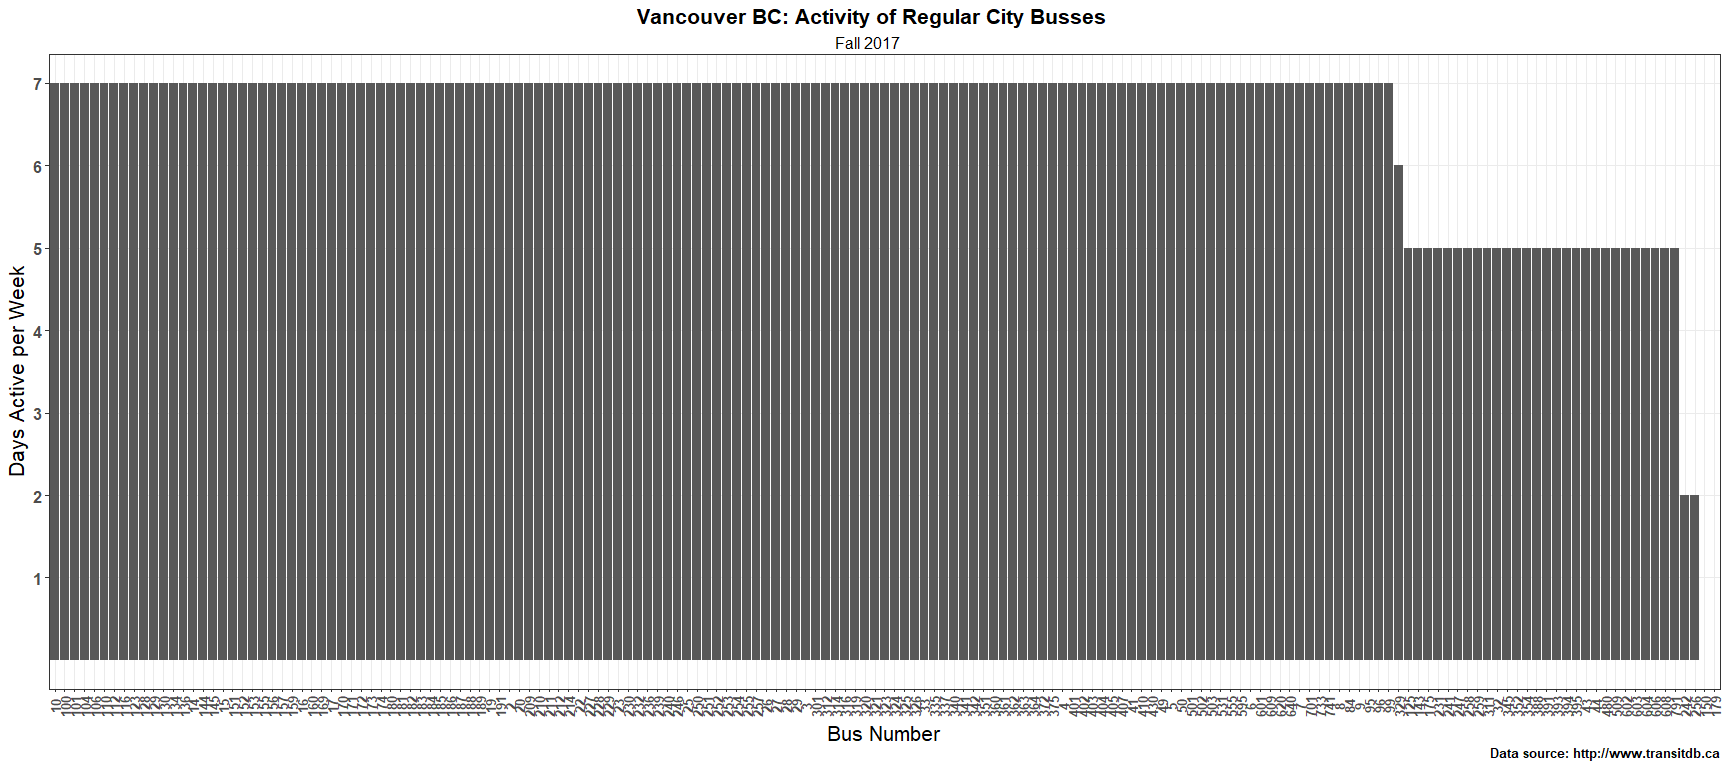
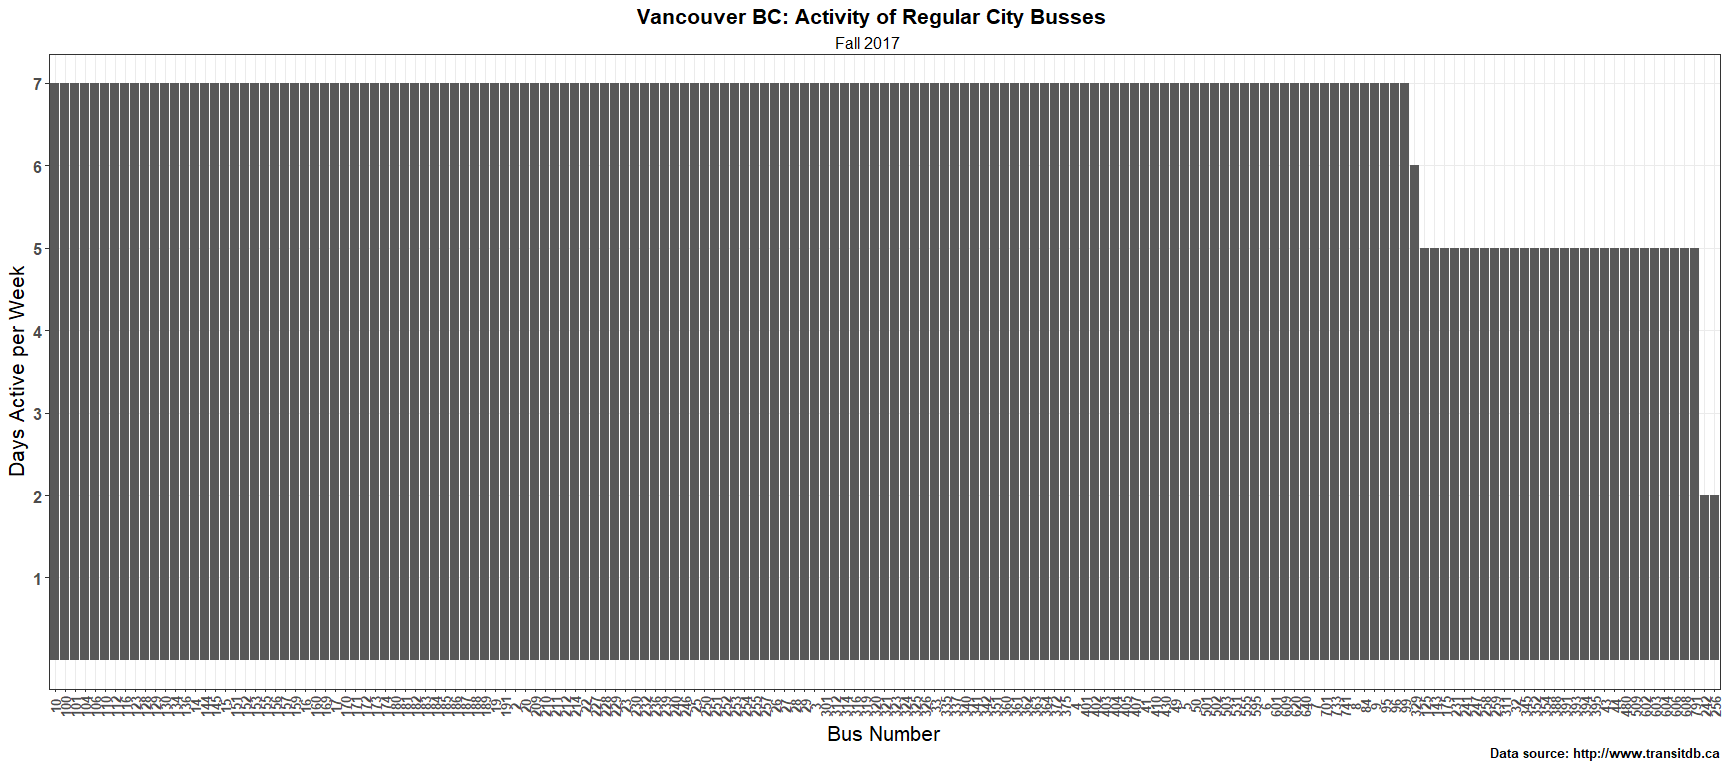
Added Save data to disc.

Changed region(s): [[0.5312, 0.0938, 1.0, 0.875], [0.0625, 0.0938, 0.4688, 0.875], [0.0625, 0.9062, 1.0, 0.9375]]

diff --git a/hw10_Web_Data_Scraping/Web_Data_Scraping.md b/hw10_Web_Data_Scraping/Web_Data_Scraping.md
@@ -1,7 +1,7 @@
 Homework 10 - Data Scraping from the Web
 ================
 Hayden Scheiber -
-06 December, 2017
+10 December, 2017
 
 [Return to Main Page](https://github.com/HScheiber/STAT545-hw-Scheiber-Hayden/blob/master/README.md)
 
@@ -13,6 +13,7 @@ Hayden Scheiber -
     1.  [Scraping the Vancouver Bus Schedules](#scraping-the-vancouver-bus-schedules)
     2.  [Obtaining Lists of Webpage Data](#obtaining-lists-of-webpage-data)
     3.  [We Need to go Deeper](#we-need-to-go-deeper)
+    4.  [Saving the data](#saving-the-data)
 
 ------------------------------------------------------------------------
 
@@ -104,7 +105,7 @@ vanc_bus_info <- data_frame(
 str(vanc_bus_info)
 ```
 
-    ## Classes 'tbl_df', 'tbl' and 'data.frame':    221 obs. of  2 variables:
+    ## Classes 'tbl_df', 'tbl' and 'data.frame':    218 obs. of  2 variables:
     ##  $ Bus_Number: chr  "2" "3" "4" "5" ...
     ##  $ Bus_Route : chr  "2 Macdonald / Downtown" "3 Main / Downtown" "4 Powell / Downtown / UBC" "5 Robson / Downtown" ...
 
@@ -204,13 +205,13 @@ vanc_bus_linkinfo <- vanc_bus_info %>%
 str(vanc_bus_linkinfo, max.level = 1)
 ```
 
-    ## Classes 'tbl_df', 'tbl' and 'data.frame':    221 obs. of  5 variables:
+    ## Classes 'tbl_df', 'tbl' and 'data.frame':    218 obs. of  5 variables:
     ##  $ Bus_Number: chr  "2" "3" "4" "5" ...
     ##  $ Bus_Route : chr  "Macdonald / Downtown" "Main / Downtown" "Powell / Downtown / UBC" "Robson / Downtown" ...
     ##  $ Bus_Type  : Named chr  "Regular" "Regular" "Regular" "Regular" ...
     ##   ..- attr(*, "names")= chr  "2" "3" "4" "5" ...
     ##  $ Route_Link: chr  "http://www.transitdb.ca/route/002/" "http://www.transitdb.ca/route/003/" "http://www.transitdb.ca/route/004/" "http://www.transitdb.ca/route/005/" ...
-    ##  $ Route_HTML:List of 221
+    ##  $ Route_HTML:List of 218
 
 Okay so now the data frame contains a mess of HTML in the 5th column. We wish to find out interesting things about the bus routes based on the data in this column. One thing we can look at is the service information, which indicates whether or not the bus runs on weekdays, saturday, or sunday/holidays.
 
@@ -530,6 +531,46 @@ vanc_bus_linkinfo %>%
 
 ![](Web_Data_Scraping_files/figure-markdown_github-ascii_identifiers/unnamed-chunk-21-1.png)
 
-Pretty neat. I'm happy with this data. Thanks for reading.
+Pretty neat. I'm happy with this data now, so I will put all the useful data into a single dataframe and save it.
+
+### Saving the data
+
+<a href="#top">Back to top</a>
+
+I want to save a "clean" data frame to disc, so let's get rid of the messy HTML and links from this data frame and save only the real data. That means we should want to keep data from columns 1-3,6-9, and 12.
+
+``` r
+# Subset data
+Vancouver_Transit_df <- vanc_bus_linkinfo[c(1:3,6:9,12)]
+
+knitr::kable(Vancouver_Transit_df %>%
+                            head(15))
+```
+
+| Bus\_Number | Bus\_Route                              | Bus\_Type | Service\_Weekdays | Service\_Saturday | Service\_Sunday |  Working\_Days|  Route\_Stops|
+|:------------|:----------------------------------------|:----------|:------------------|:------------------|:----------------|--------------:|-------------:|
+| 2           | Macdonald / Downtown                    | Regular   | TRUE              | TRUE              | TRUE            |              7|            44|
+| 3           | Main / Downtown                         | Regular   | TRUE              | TRUE              | TRUE            |              7|            40|
+| 4           | Powell / Downtown / UBC                 | Regular   | TRUE              | TRUE              | TRUE            |              7|            67|
+| 5           | Robson / Downtown                       | Regular   | TRUE              | TRUE              | TRUE            |              7|            18|
+| 6           | Davie / Downtown                        | Regular   | TRUE              | TRUE              | TRUE            |              7|            15|
+| 7           | Nanaimo Station / Dunbar                | Regular   | TRUE              | TRUE              | TRUE            |              7|            80|
+| 8           | Fraser / Downtown                       | Regular   | TRUE              | TRUE              | TRUE            |              7|            43|
+| 9           | Boundary / Comm-Bwy / Gran / Alma / UBC | Regular   | TRUE              | TRUE              | TRUE            |              7|            67|
+| 10          | Granville / Downtown                    | Regular   | TRUE              | TRUE              | TRUE            |              7|            55|
+| 14          | Hastings / UBC                          | Regular   | TRUE              | TRUE              | TRUE            |              7|            74|
+| 15          | Cambie / Olympic Village Station        | Regular   | TRUE              | TRUE              | TRUE            |              7|            25|
+| 16          | 29th Avenue Station / Arbutus           | Regular   | TRUE              | TRUE              | TRUE            |              7|            89|
+| 17          | Oak / Downtown                          | Regular   | TRUE              | TRUE              | TRUE            |              7|            47|
+| 19          | Metrotown Station / Stanley Park        | Regular   | TRUE              | TRUE              | TRUE            |              7|            58|
+| 20          | Victoria / Downtown                     | Regular   | TRUE              | TRUE              | TRUE            |              7|            51|
+
+Now we can save this subsetted data frame to file. Here I will save as a CVS type file.
+
+``` r
+write_csv(Vancouver_Transit_df, "Vancouver_Bus_Info.CSV")
+```
+
+That's all! Thanks for reading!
 
 <a href="#top">Back to top</a>
